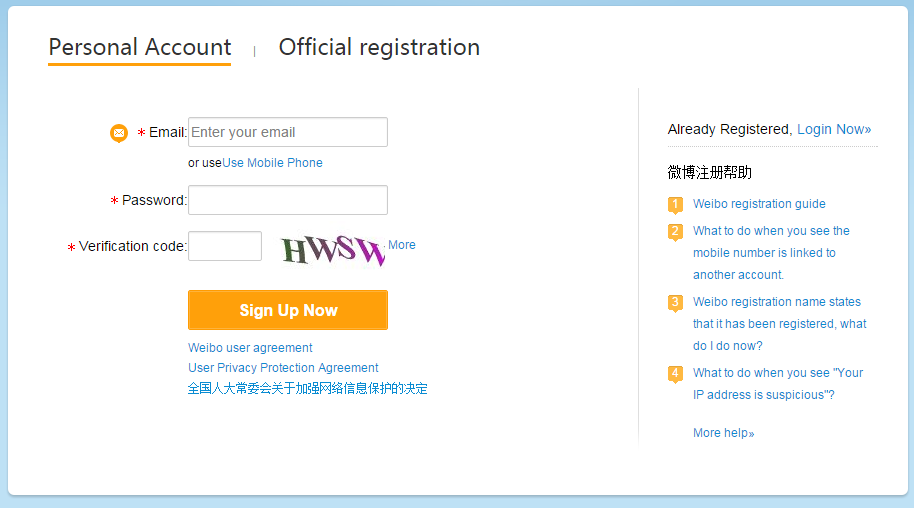
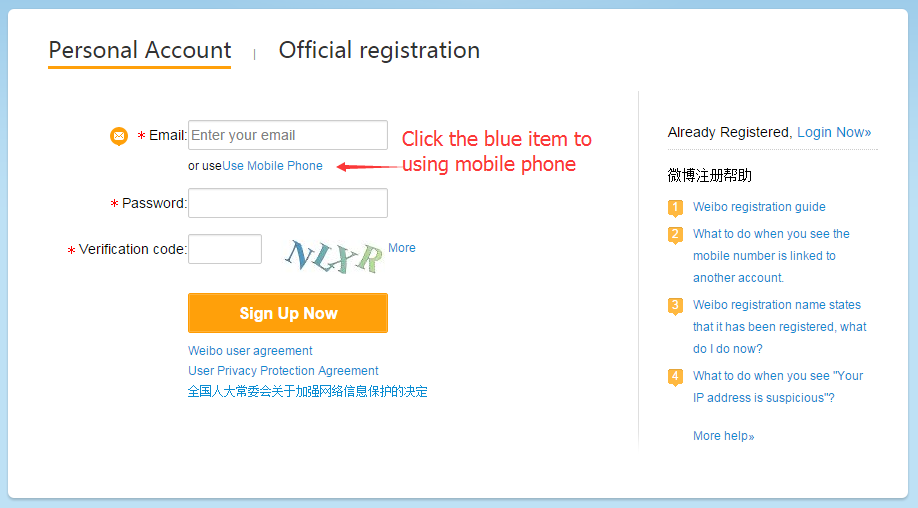
adding mobile way

diff --git a/weibo/apiguide/index.html b/weibo/apiguide/index.html
@@ -12,7 +12,7 @@
     <meta charset="utf-8">
     <meta http-equiv="X-UA-Compatible" content="IE=edge">
     <meta name="viewport" content="width=device-width,initial-scale=1,maximum-scale=1,user-scalable=no">
-    <title>Guide for Weibo API</title>
+    <title>Guide for Using Weibo API</title>
     <meta name="renderer" content="webkit">
     <meta http-equiv="Cache-Control" content="no-siteapp"/>
     <link rel="alternate icon" type="image/png" href="../assets/i/favicon.png">
@@ -113,7 +113,9 @@
             This is a smooth guide for programmers and researchers who intend to use Weibo's API. Since the current official documents haven't updated for a long time,
             I am writing this guide to support the <a href="social-feed-manager.readthedocs.org">Social Feed Manager</a> project. Also,I want to share what we know to the new users.
             </p>
-            <blockquote class="am-text-lg">I highly recommend you to ask someone with Chinese background if you feel stuck.</blockquote>
+            <blockquote class="am-text-lg">I highly recommend you to ask someone with Chinese background if you feel stuck. 
+			Please make sure you can access to Weibo without any filters. If you are connetcting to <strong>GWireless</strong>, it would be hard to complete all the sections.
+			</blockquote>
         </div>
     </div>
     <section class="" id="amz-main" data-tag="html-css">
@@ -174,8 +176,10 @@
 				 <img class="am-radius am-img-thumbnail" src="../images/weibo_signup.png" width="100%"/>
 				 <p>It has two ways to fill the form: <strong class="am-text-secondary">Use Email</strong> or 
 				 <strong class="am-text-secondary">Use Mobile Phone </strong>, but both of them need your phone to verfy the information.
-				 This guide will follow the Mobile Phone way. After filling all the fields, click the orange button and go to the next step.
+				 This guide will follow the Mobile Phone way. The page is showing below:
 				 </p>
+				 <img class="am-radius am-img-thumbnail" src="../images/weibo_signup_mobile.png" width="100%"/>
+				 <p>Choose the area code for your phone number, after filling in all the fields,click the <strong class="am-text-warning">Orange</strong> button and go to the next step.</p>
 				 <h3 id="update_info">Update Information</h3>
 				  <p>In this step, you need to provide your <strong>basic information</strong>. 
 				  For the gender,<strong class="am-text-warning">男</strong> (on the left) means male and 
